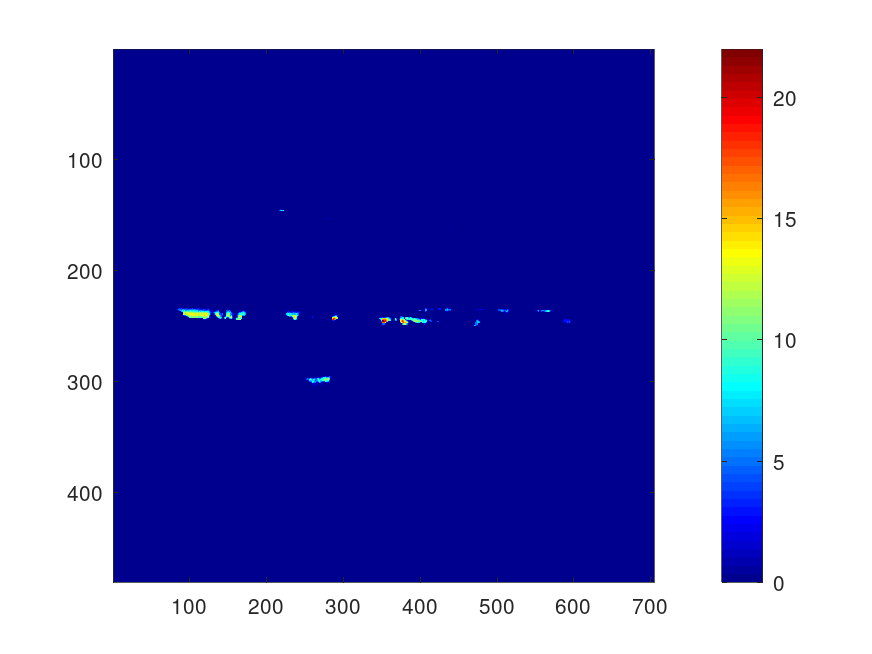
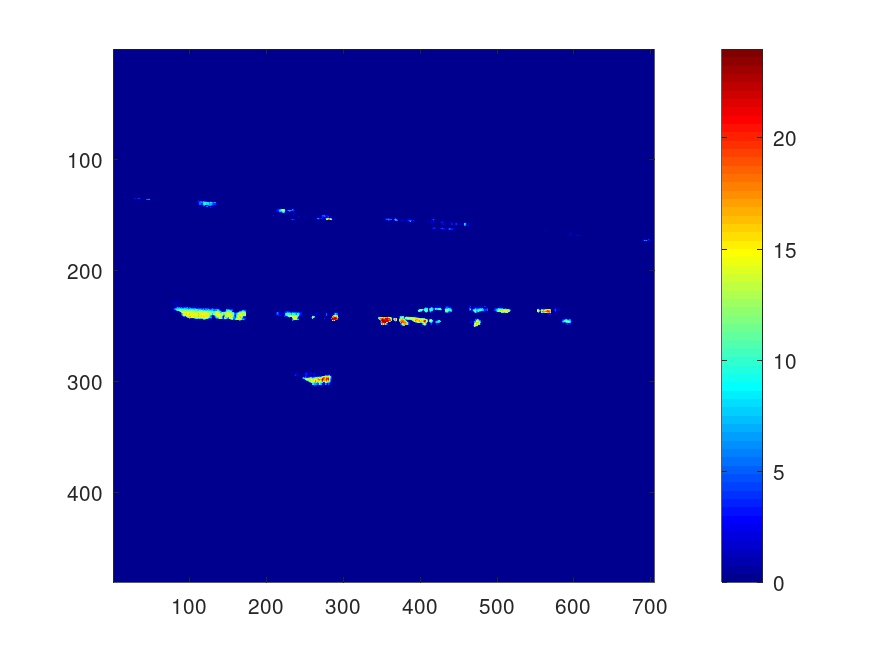
cambié al calculo del threshold. en lugar de multiplicarlo por el fondo, lo multiplico por el valor máximo de mi frame de diferencias

diff --git a/getMovement.m b/getMovement.m
@@ -16,16 +16,10 @@ function [mvAccFrames, mvFrames, frames] = getMovement(videoFile, gap, sigma)
         difFrame = abs(background - actualFrame);
 
         otsuThresh = otsuthresh(difFrame(:));
-        thresholded = background * otsuThresh;
 
-        mvFrame = difFrame >= thresholded;
-
-        mvFrame = difFrame >= thresholded;
+        mvFrame = difFrame >= otsuThresh * max(difFrame(:));
 
         mvFrames{f - gap} = mvFrame;
         mvAccFrames += mvFrame;
     end
-    figure
-    title('actualFrame')
-    imhist(actualFrame(:))
 end

diff --git a/test.m b/test.m
@@ -1,7 +1,7 @@
 close all; clearvars; clc;
 
 videoFile = 'assets/DM_avenidas.mp4'
-evalRange = 5;
+evalRange = 20;
 filterSigma = 1;
 
 frameHeight = 480;
@@ -32,7 +32,5 @@ colorbar;
 print(i1, 'outputs/imagesc_jet_colorbar.png', '-dpng');
 close(i1);
 
-i2 = figure('visible', 'off');
+figure;
 surf(mvAccFrames);
-print(i2, 'outputs/surf_plot.png', '-dpng');
-close(i2);
